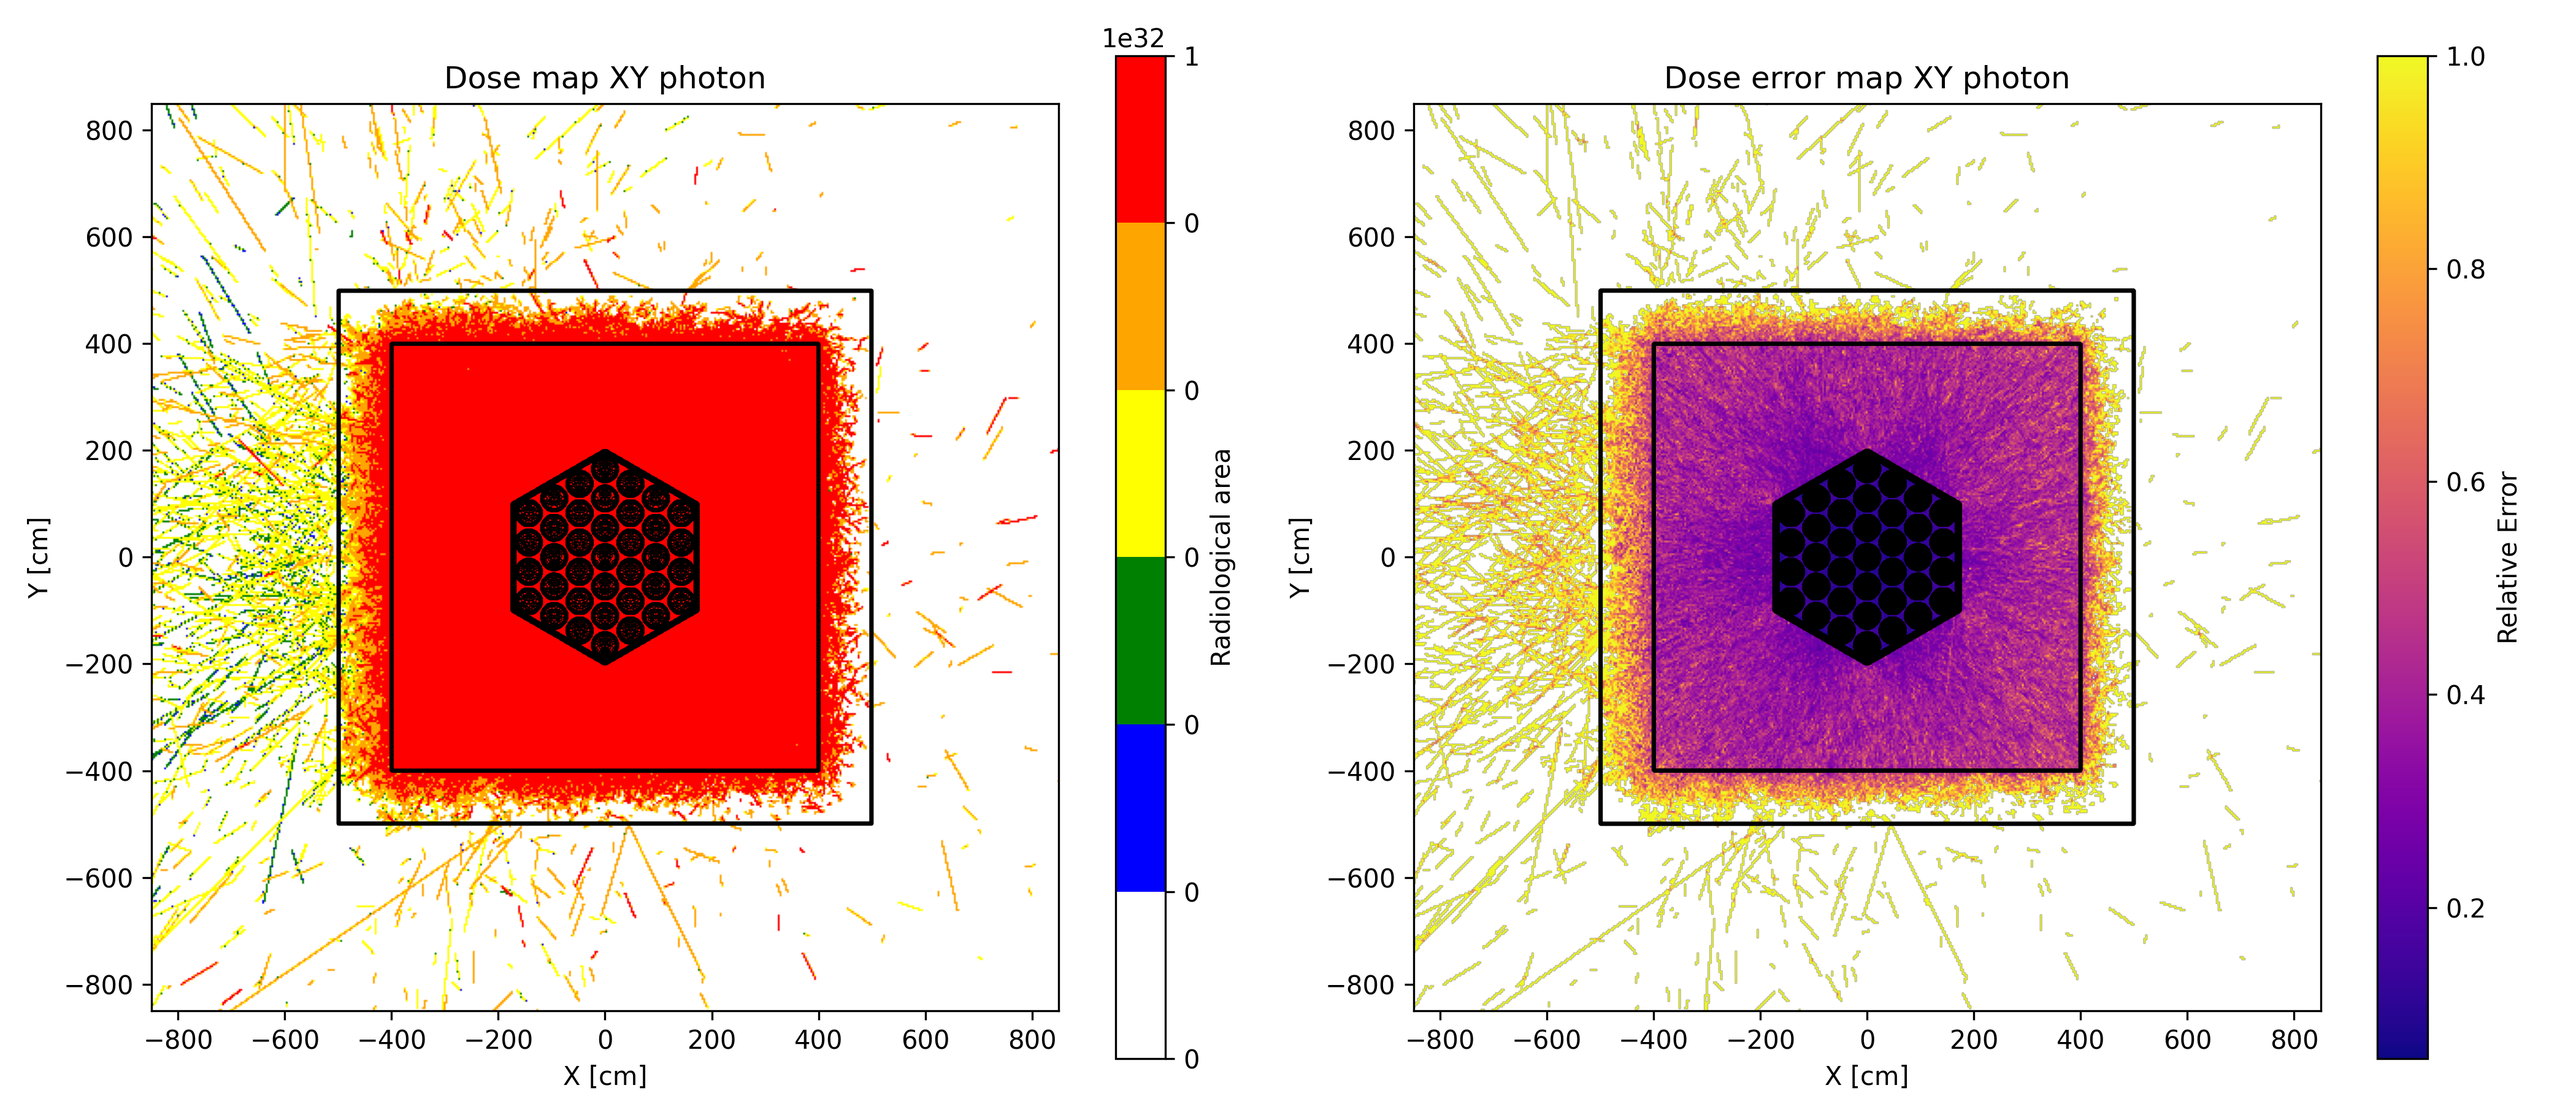
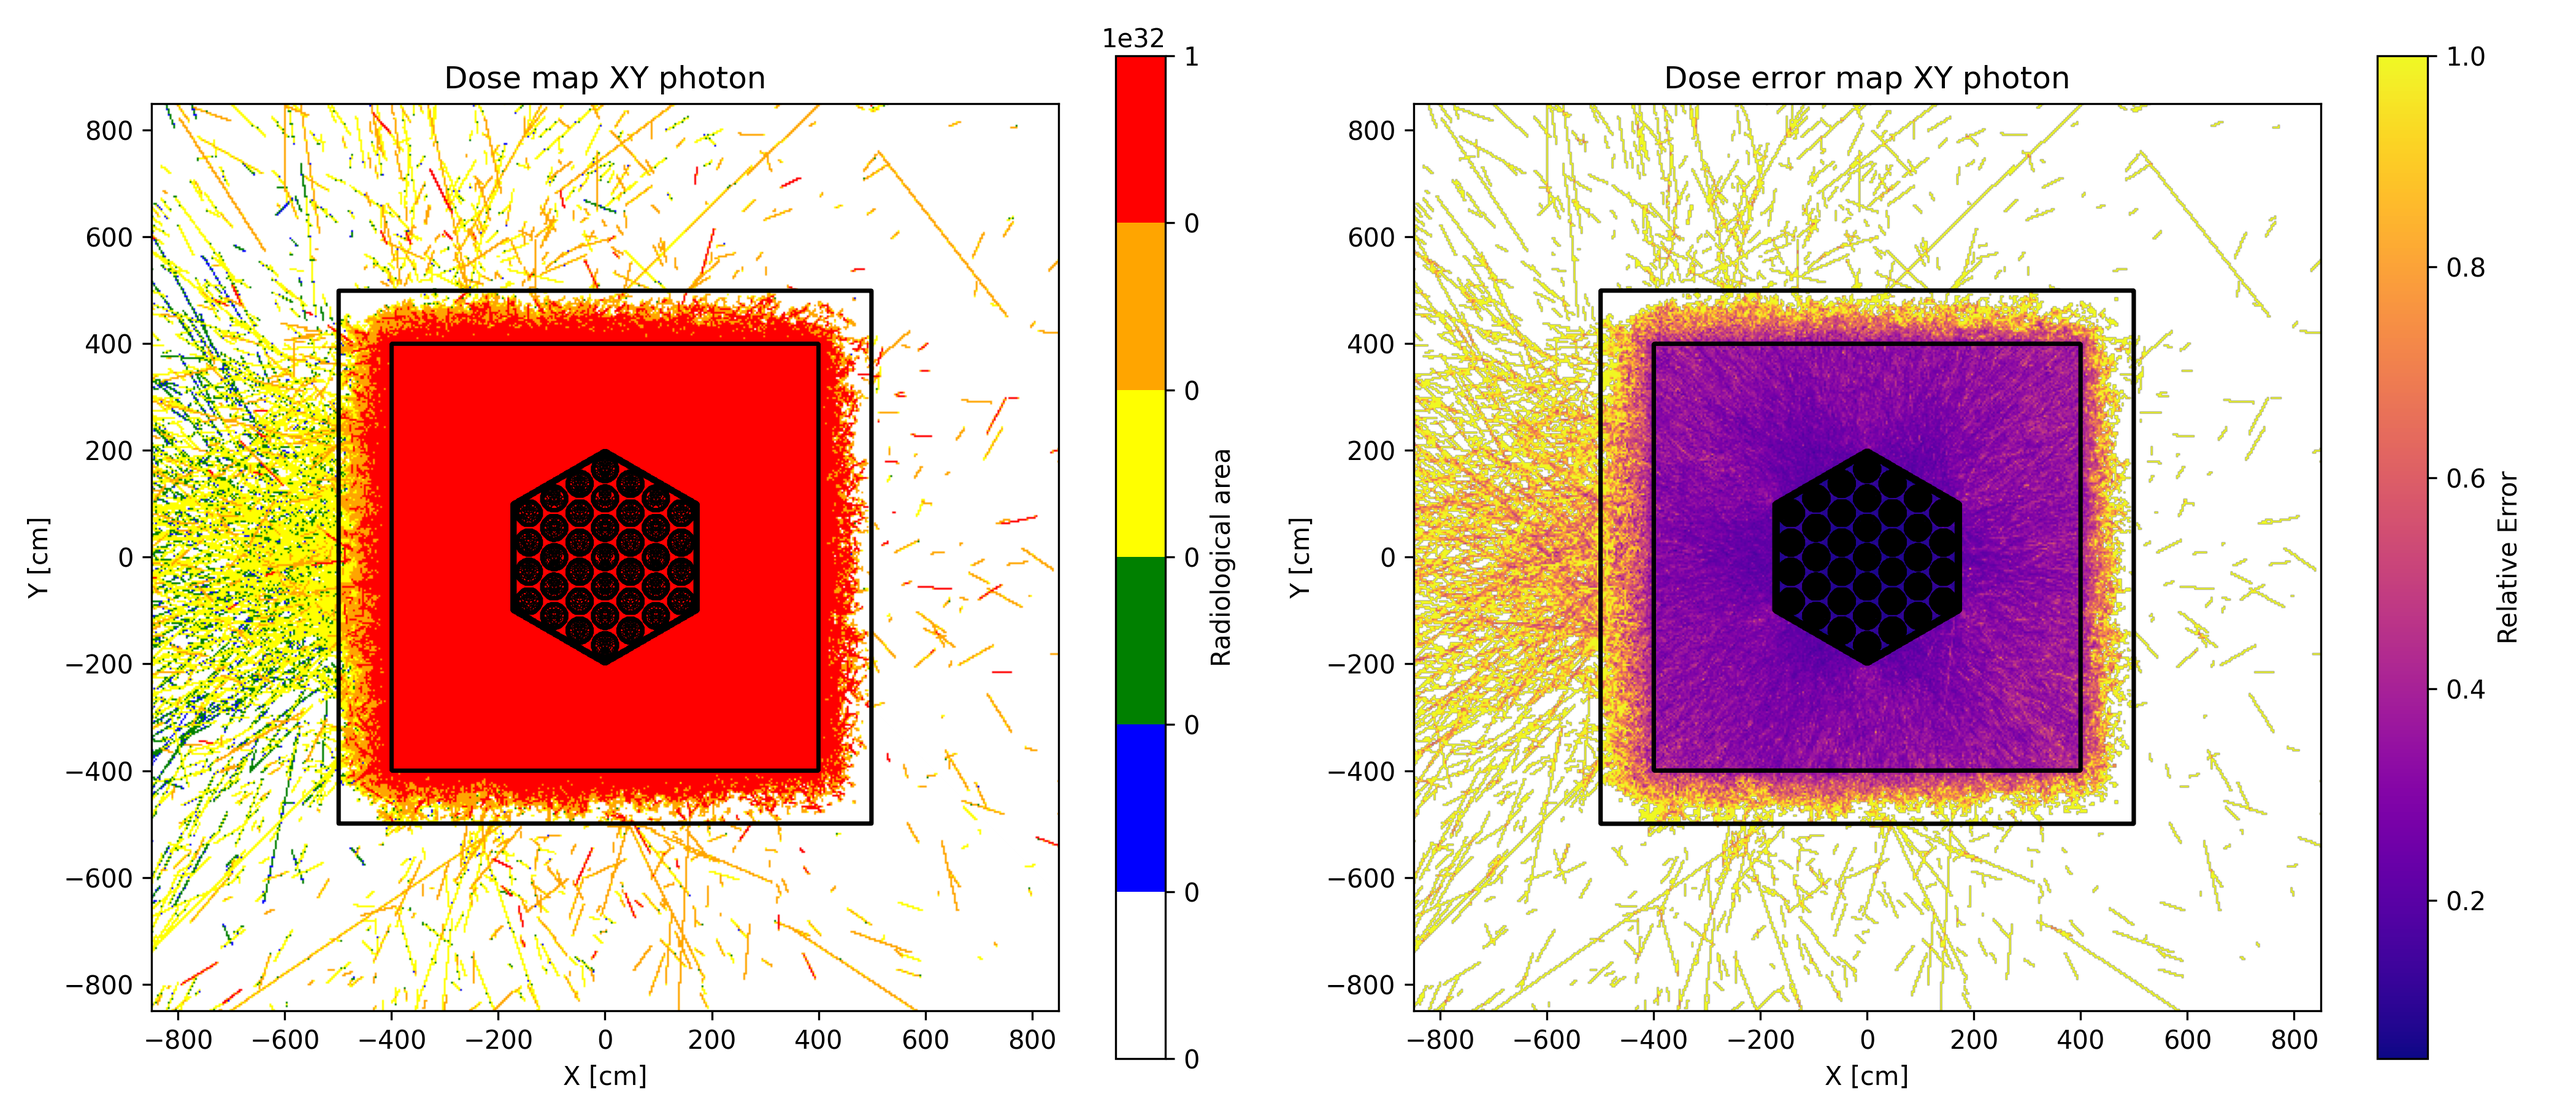
refact:arange_attribut

diff --git a/src/utils/post_preocessing/post_processing.py b/src/utils/post_preocessing/post_processing.py
@@ -526,12 +526,25 @@ class Pulse_height_tally:
         return efficiency
     
 class mesh_tally_data:
-    def __init__(self, statepoint, name_mesh_tally, plane, bin_number, lower_left, upper_right):
+    def __init__(self, statepoint, name_mesh_tally, plane):
         self.mesh_tally = statepoint.get_tally(name=name_mesh_tally)
         self.plane = plane
-        self.bin_number = bin_number
-        self.lower_left = lower_left
-        self.upper_right = upper_right
+        self.bin_number = np.sqrt(self.mesh_tally.num_bins).astype(int)
+        if plane.lower() == "xy":
+            mesh_filter = self.mesh_tally.find_filter(openmc.MeshFilter)
+            mesh = mesh_filter.mesh
+            self.lower_left = mesh.lower_left[:-1]
+            self.upper_right = mesh.upper_right[:-1]
+        elif plane.lower() == "xz":
+            mesh_filter = self.mesh_tally.find_filter(openmc.MeshFilter)
+            mesh = mesh_filter.mesh
+            self.lower_left = (mesh.lower_left[0], mesh.lower_left[2])
+            self.upper_right = (mesh.upper_right[0], mesh.upper_right[2])
+        elif plane.lower() == "yz":
+            mesh_filter = self.mesh_tally.find_filter(openmc.MeshFilter)
+            mesh = mesh_filter.mesh
+            self.lower_left = (mesh.lower_left[1], mesh.lower_left[2])
+            self.upper_right = (mesh.upper_right[1], mesh.upper_right[2])
 
     @property
     def get_coordinates(self):

diff --git a/src/studies/reactor_study/class_model/stop_24h/02_with_ww/02_ww_using/03_100cm/post.py b/src/studies/reactor_study/class_model/stop_24h/02_with_ww/02_ww_using/03_100cm/post.py
@@ -22,7 +22,7 @@ os.environ["OPENMC_CROSS_SECTIONS"] = PATH_TO_CROSS_SECTIONS
 
 material_dict["FUEL_UO2_MATERIAL"].remove_element("U")
 
-statepoint = openmc.StatePoint(f"statepoint.050.h5")
+statepoint = openmc.StatePoint(f"statepoint.090.h5")
 
 bin_mesh_volume = get_mesh_volumes(lower_left=(-850.0, -850.0), upper_right=(850.0, 850.0), thickness=20.0, bin_number=500)
 photons_per_s = 2.5e15
@@ -69,11 +69,11 @@ save_tally_result_to_json(
     filename="results.json"
 )
 
-mesh_tally_photons = mesh_tally_data(statepoint, "flux_mesh_photons_xy", "xy", 500, (-850.0, -850.0), (850.0, 850.0))
+mesh_tally_photons = mesh_tally_data(statepoint, "flux_mesh_photons_xy", "XY")
 mesh_tally_photons.plot_dose(axis_two_index=250, 
                              particles_per_second=photons_per_s, 
                              x_lim=(-650, 0),
-                             y_lim=(1e1, 1e10),
+                             y_lim=(1e1, 1e8),
                              mesh_bin_volume=bin_mesh_volume,
                              save_fig=True,
                              radiological_area=True,
